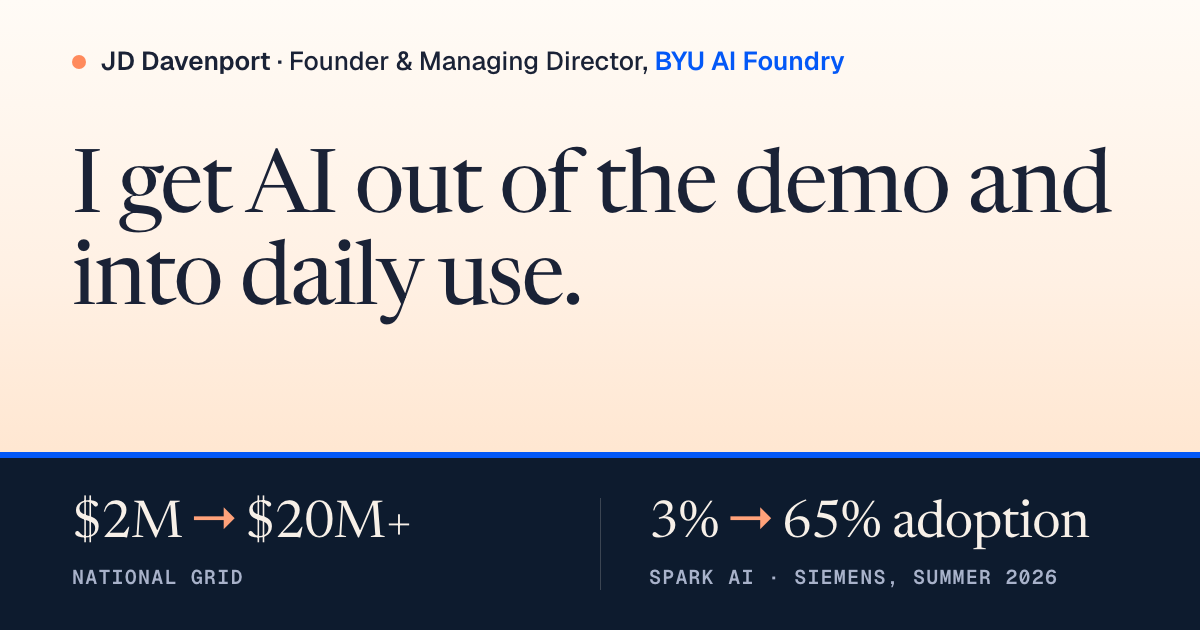
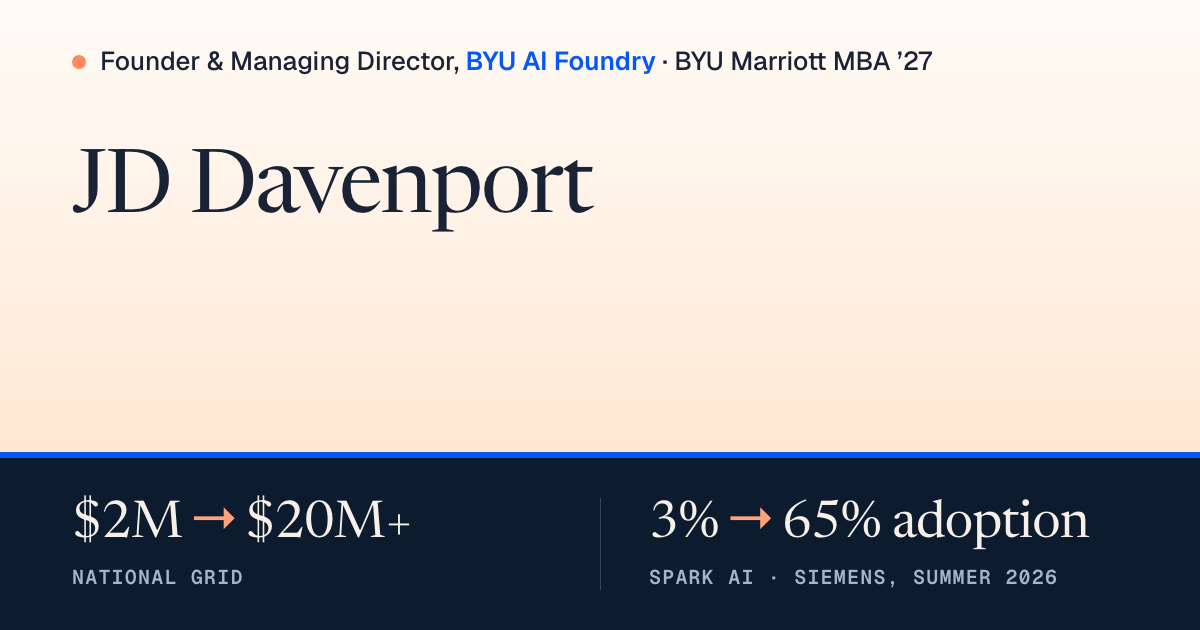
og-image: name as headline, matches the bio hero

Changed region(s): [[0.0617, 0.2111, 0.925, 0.5127], [0.0617, 0.0603, 0.7708, 0.1206]]

diff --git a/tools/og-card.html b/tools/og-card.html
@@ -35,8 +35,8 @@ h1{position:absolute;left:72px;right:72px;top:146px;font:400 88px/1.04 var(--f-s
 </style>
 </head>
 <body>
-  <div class="top"><span class="dot"></span><span><b>JD Davenport</b> &middot; Founder &amp; Managing Director, <span class="role">BYU AI Foundry</span></span></div>
-  <h1>I get AI out of the demo and into daily use.</h1>
+  <div class="top"><span class="dot"></span><span>Founder &amp; Managing Director, <span class="role">BYU AI Foundry</span> &middot; BYU Marriott MBA &rsquo;27</span></div>
+  <h1>JD Davenport</h1>
   <div class="band">
     <div class="stat"><div class="num">$2M<i>&rarr;</i>$20M+</div><div class="src">National Grid</div></div>
     <div class="stat"><div class="num">3%<i>&rarr;</i>65% adoption</div><div class="src">Spark AI &middot; Siemens, summer 2026</div></div>
